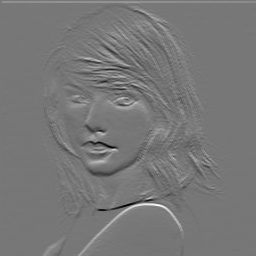
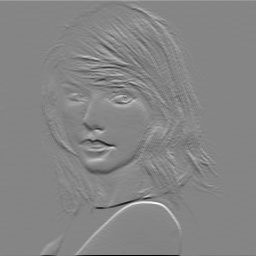
changes

diff --git a/project1/task1.py b/project1/task1.py
@@ -110,7 +110,7 @@ def convolve2d(img, kernel):
     
     flipped_filter = utils.flip2d(kernel)
     
-    img_padded = utils.zero_pad(img, k, l)
+    img_padded = utils.zero_pad(img, 1, 1)
 
     img_conv = [[0 for _ in range(n)] for _ in range(m)]
     
